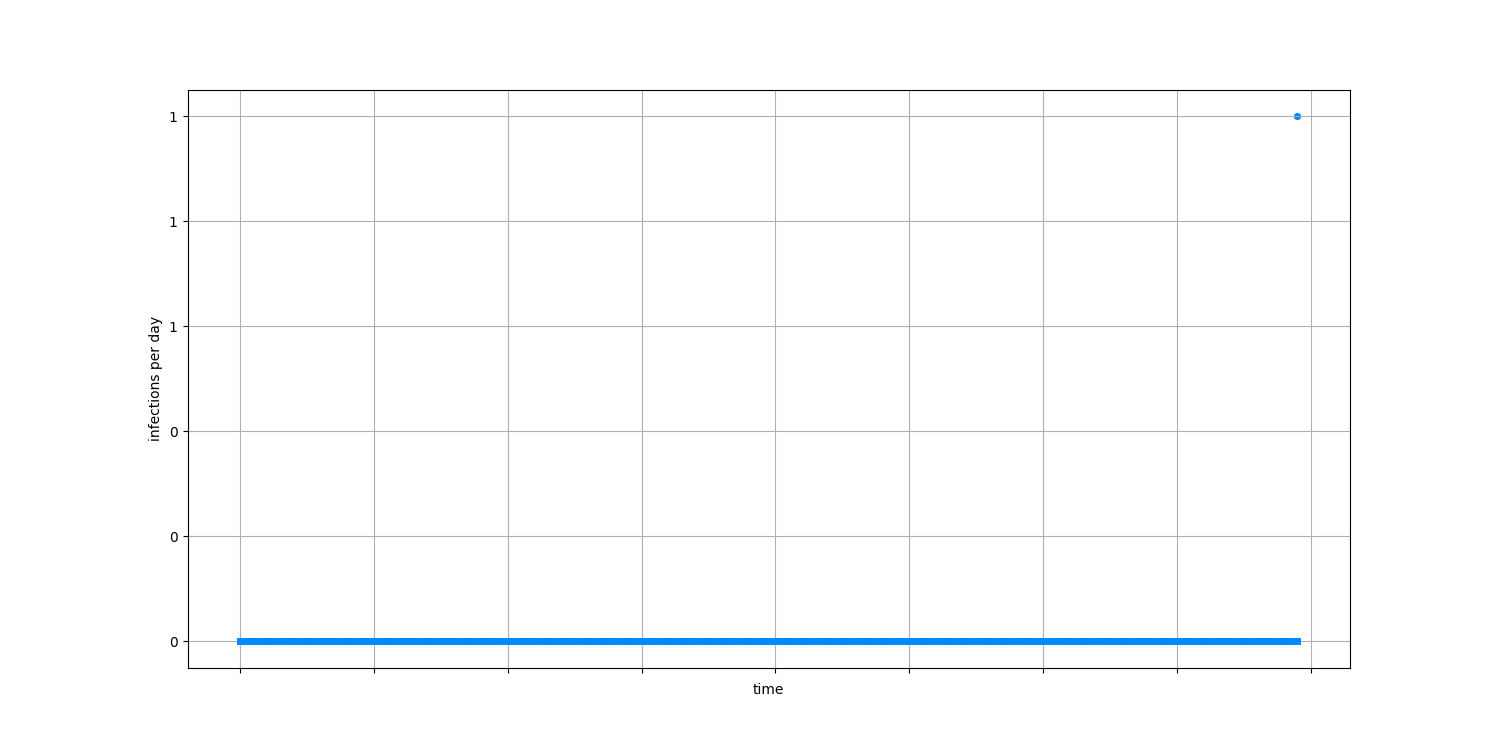
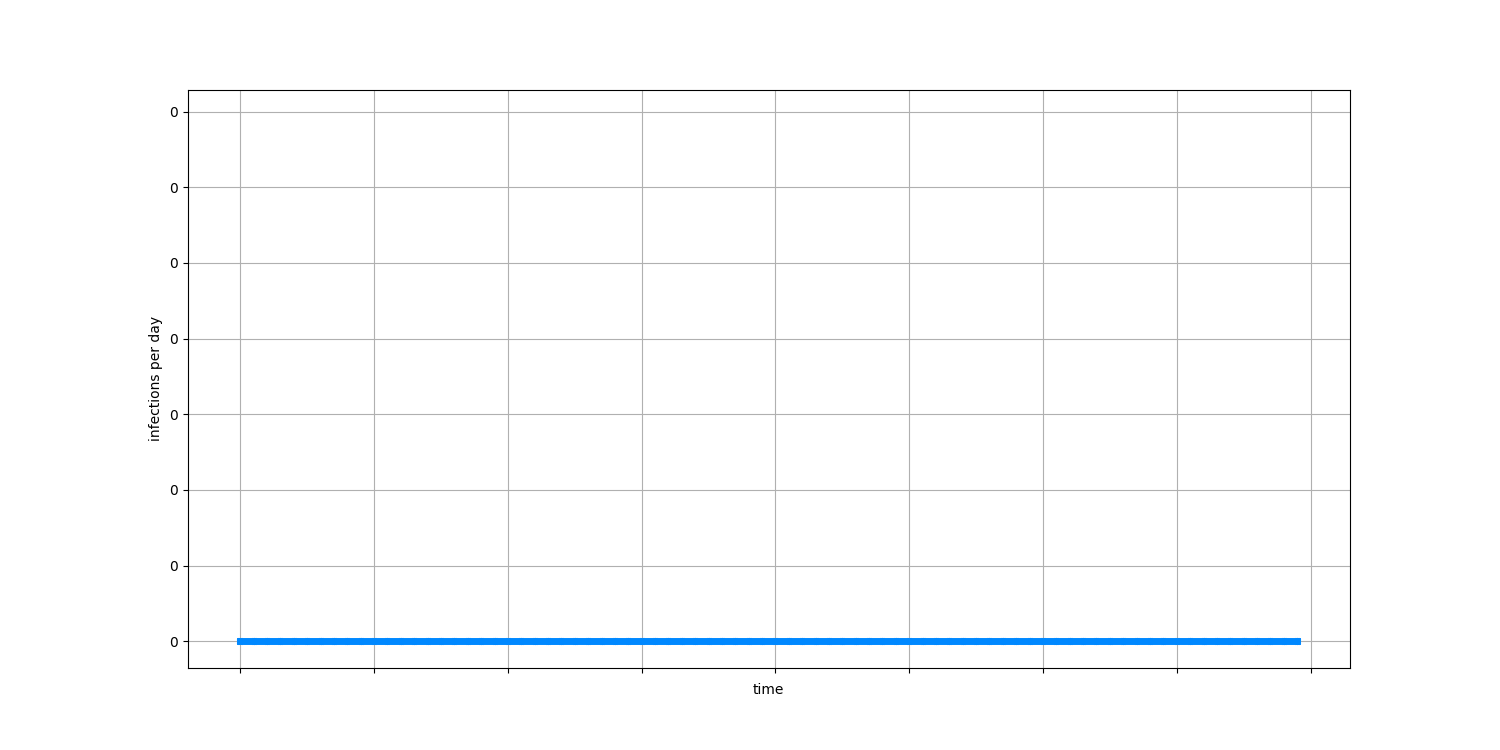
regular update

diff --git a/docs/AS.html b/docs/AS.html
@@ -73,11 +73,11 @@
         <div class="grid-col-9">
           <h1 class="font-body-2xl">
             American Samoa has had about 0 COVID-19 deaths and
-            1 confirmed cases.
+            0 confirmed cases.
             <small>
-              That's about <strong>2 out of every
-              100,000</strong> people who we know are or have
-              been infected. About <strong>%</strong>
+              That's about <strong>0 out of every
+              1</strong> people who we know are or have
+              been infected. About <strong>0%</strong>
               of people who have tested positive have died.
             </small>
           </h1>
@@ -97,7 +97,7 @@
             There are about <strong>0</strong> new
             cases identified every day. At the current rate, the total number of
             confirmed cases will be about <strong>
-            2</strong> in 7 days. This chart
+            0</strong> in 7 days. This chart
             shows the number of new cases each day since the first case was
             identified. The dots are the total number of new cases for each day
             and the line is the average of the previous seven days.

diff --git a/docs/index.html b/docs/index.html
@@ -73,7 +73,7 @@
         <div class="grid-col-9">
           <h1 class="font-body-2xl">
             The United States has had about 101,192 COVID-19 deaths and
-            1,843,316 confirmed cases.
+            1,843,315 confirmed cases.
             <small>
               That's about <strong>6 out of every
               1,000</strong> people who we know are or have
